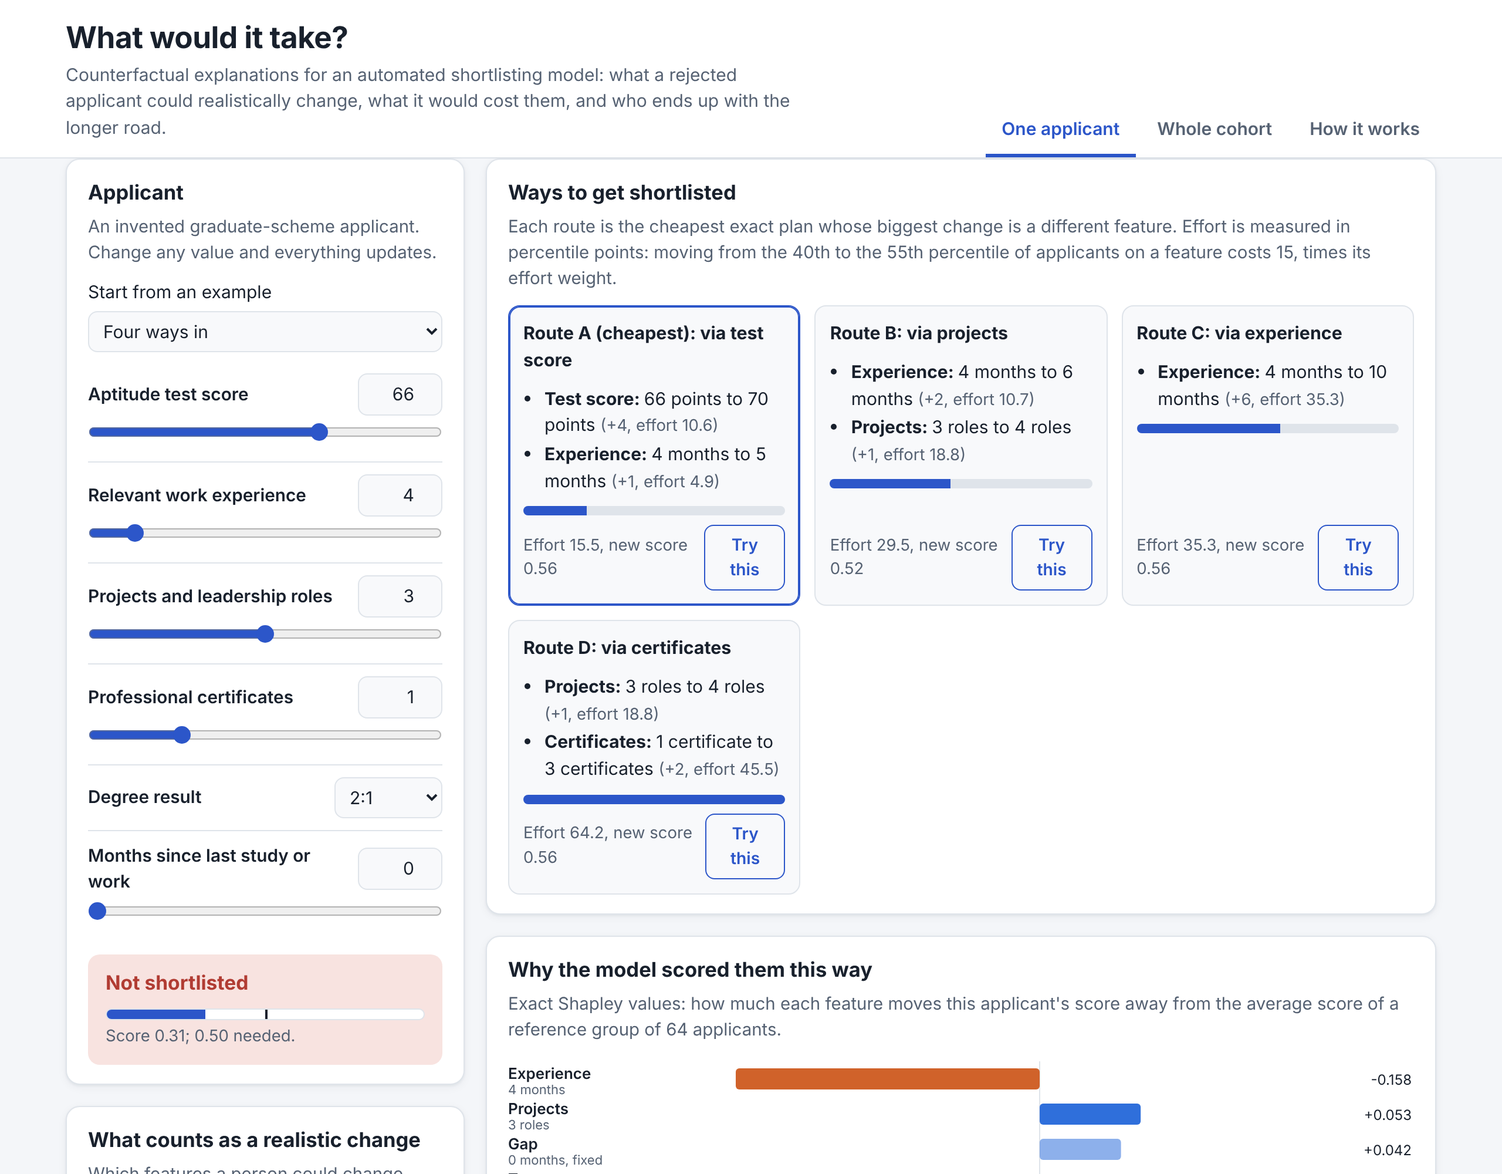
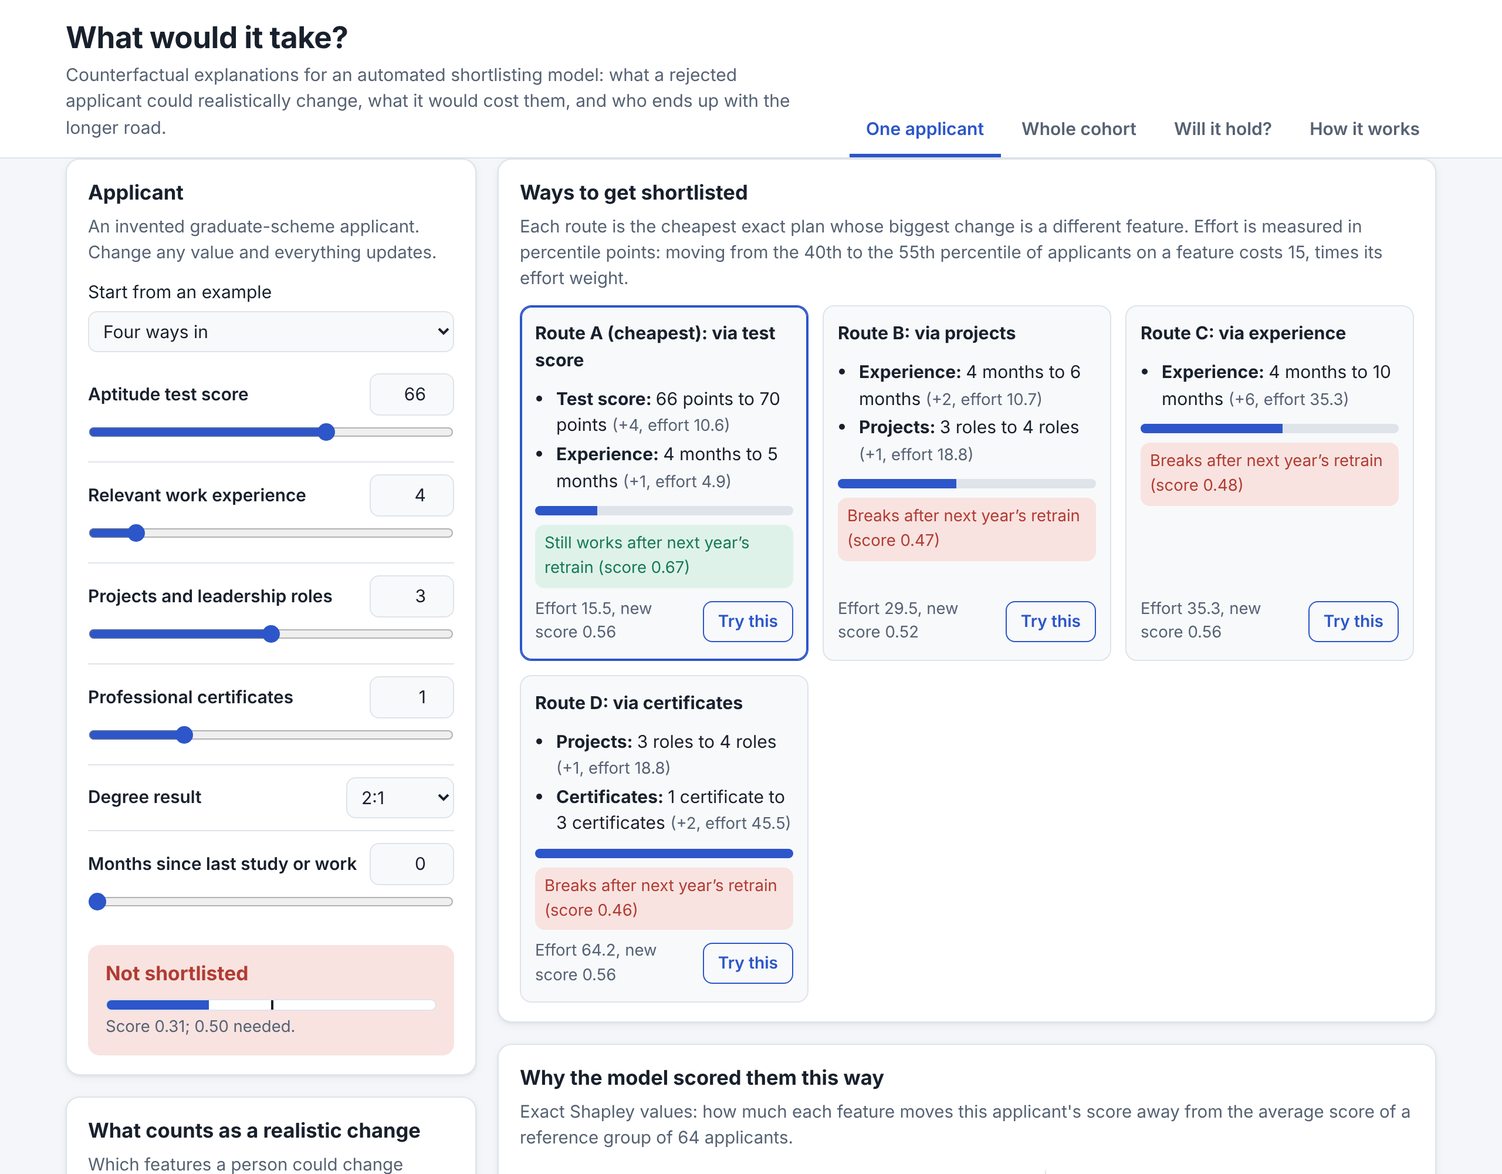
Loop 3: interface pass: phone order, compact rules table, round map ticks, clearer route markers, legends and table fit

diff --git a/app/index.html b/app/index.html
@@ -40,7 +40,7 @@ nav.tabs button[aria-selected="true"] { color: var(--accent); border-bottom-colo
 nav.tabs button:focus-visible { outline: 2px solid var(--accent); outline-offset: -2px; border-radius: 6px; }
 main { padding: 20px 0 40px; }
 .panel[hidden] { display: none; }
-.grid { display: grid; grid-template-columns: 340px minmax(0, 1fr); gap: 18px; align-items: start; }
+.grid { display: grid; grid-template-columns: 350px minmax(0, 1fr); gap: 18px; align-items: start; }
 .col { display: grid; gap: 18px; min-width: 0; }
 .card { background: var(--surface); border: 1px solid var(--line); border-radius: var(--radius); padding: 16px 18px; box-shadow: var(--shadow); min-width: 0; }
 .card h2 { font-size: 1.08rem; margin: 0 0 4px; }
@@ -80,7 +80,7 @@ select:focus-visible, input:focus-visible, button:focus-visible { outline: 2px s
 .plan .foot { display: flex; align-items: center; justify-content: space-between; gap: 8px; margin-top: auto; }
 .effort { height: 8px; border-radius: 5px; background: var(--line); overflow: hidden; }
 .effort span { display: block; height: 100%; background: var(--accent); }
-.btn { display: inline-block; appearance: none; font: inherit; font-weight: 600; font-size: 0.88rem; border-radius: 8px; padding: 6px 12px; cursor: pointer; border: 1px solid var(--accent); background: var(--accent); color: var(--accent-ink); }
+.btn { display: inline-block; white-space: nowrap; appearance: none; font: inherit; font-weight: 600; font-size: 0.88rem; border-radius: 8px; padding: 6px 12px; cursor: pointer; border: 1px solid var(--accent); background: var(--accent); color: var(--accent-ink); }
 .btn.ghost { background: transparent; color: var(--accent); }
 .btn:disabled { opacity: 0.45; cursor: default; }
 .empty { padding: 14px; border: 1px dashed var(--line); border-radius: 10px; color: var(--muted); }
@@ -99,10 +99,16 @@ th, td { text-align: left; padding: 7px 8px; border-bottom: 1px solid var(--line
 th { font-weight: 600; color: var(--muted); font-size: 0.85rem; }
 td.num, th.num { text-align: right; font-variant-numeric: tabular-nums; }
 .tablewrap { overflow-x: auto; }
-.rules td input[type="number"] { width: 64px; }
-.rules td select { width: 76px; }
+.rules th, .rules td { padding: 6px 4px; }
+.rules td input[type="number"] { width: 54px; padding: 5px 6px; }
+.rules td select { width: 68px; padding: 5px 4px; }
+.rules td.cb { text-align: center; }
+.rules input[type="checkbox"] { width: 18px; height: 18px; accent-color: var(--accent); }
 .inline { display: flex; flex-wrap: wrap; gap: 14px; align-items: center; margin-top: 12px; }
 .kpis { display: grid; grid-template-columns: repeat(auto-fit, minmax(170px, 1fr)); gap: 12px; }
+.kpis .legend { grid-column: 1 / -1; margin-top: 0; }
+.short { display: none; }
+.tablecap { margin: 8px 0 0; }
 .kpi { border: 1px solid var(--line); border-radius: 10px; padding: 12px; background: var(--surface-2); }
 .kpi .lab { font-size: 0.84rem; color: var(--muted); }
 .kpi .vals { display: flex; gap: 14px; align-items: baseline; margin-top: 4px; flex-wrap: wrap; }
@@ -122,15 +128,30 @@ table.matrix td.hot { background: var(--accent-soft); font-weight: 700; }
 .hold.ok { background: var(--yes-soft); color: var(--yes); }
 .hold.bad { background: var(--no-soft); color: var(--no); }
 .prose p, .prose li { margin: 0 0 10px; }
-footer.foot { color: var(--muted); font-size: 0.85rem; padding: 0 0 30px; }
+footer.foot { color: var(--muted); font-size: 0.85rem; padding-bottom: 30px; }
 .sr-only { position: absolute; width: 1px; height: 1px; padding: 0; margin: -1px; overflow: hidden; clip: rect(0, 0, 0, 0); border: 0; }
 @media (max-width: 900px) {
   .grid { grid-template-columns: 1fr; }
+  /* On narrow screens the two columns merge so the routes follow the applicant. */
+  .grid > .col { display: contents; }
+  #card-applicant { order: 1; }
+  #card-plans { order: 2; }
+  #card-why { order: 3; }
+  #card-map { order: 4; }
+  #card-notice { order: 5; }
+  #card-rules { order: 6; }
+  #card-setup { order: 7; }
 }
 @media (max-width: 520px) {
   h1 { font-size: 1.35rem; }
   .card { padding: 14px; }
-  nav.tabs button { padding: 8px 10px; }
+  nav.tabs { gap: 0; }
+  nav.tabs button { padding: 8px 7px; font-size: 0.9rem; }
+  .long { display: none; }
+  .short { display: inline; }
+  table { font-size: 0.86rem; }
+  th, td { padding: 6px 4px; }
+  table.matrix td.num { min-width: 0; }
 }
 </style>
 </head>
@@ -142,10 +163,10 @@ footer.foot { color: var(--muted); font-size: 0.85rem; padding: 0 0 30px; }
       <p class="tag">Counterfactual explanations for an automated shortlisting model: what a rejected applicant could realistically change, what it would cost them, and who ends up with the longer road.</p>
     </div>
     <nav class="tabs" role="tablist" aria-label="Sections">
-      <button role="tab" id="tab-applicant" aria-controls="panel-applicant" aria-selected="true">One applicant</button>
-      <button role="tab" id="tab-cohort" aria-controls="panel-cohort" aria-selected="false" tabindex="-1">Whole cohort</button>
+      <button role="tab" id="tab-applicant" aria-controls="panel-applicant" aria-selected="true"><span class="long">One applicant</span><span class="short">Applicant</span></button>
+      <button role="tab" id="tab-cohort" aria-controls="panel-cohort" aria-selected="false" tabindex="-1"><span class="long">Whole cohort</span><span class="short">Cohort</span></button>
       <button role="tab" id="tab-hold" aria-controls="panel-hold" aria-selected="false" tabindex="-1">Will it hold?</button>
-      <button role="tab" id="tab-about" aria-controls="panel-about" aria-selected="false" tabindex="-1">How it works</button>
+      <button role="tab" id="tab-about" aria-controls="panel-about" aria-selected="false" tabindex="-1"><span class="long">How it works</span><span class="short">About</span></button>
     </nav>
   </div>
 </header>
@@ -154,7 +175,7 @@ footer.foot { color: var(--muted); font-size: 0.85rem; padding: 0 0 30px; }
   <section class="panel" id="panel-applicant" role="tabpanel" aria-labelledby="tab-applicant">
     <div class="grid">
       <div class="col">
-        <section class="card" aria-labelledby="h-applicant">
+        <section class="card" id="card-applicant" aria-labelledby="h-applicant">
           <h2 id="h-applicant">Applicant</h2>
           <p class="hint">An invented graduate-scheme applicant. Change any value and everything updates.</p>
           <label class="preset">Start from an example
@@ -163,12 +184,12 @@ footer.foot { color: var(--muted); font-size: 0.85rem; padding: 0 0 30px; }
           <div id="fields"></div>
           <div id="decision" class="decision" aria-live="polite"></div>
         </section>
-        <section class="card" aria-labelledby="h-rules">
+        <section class="card" id="card-rules" aria-labelledby="h-rules">
           <h2 id="h-rules">What counts as a realistic change</h2>
           <p class="hint">Which features a person could change within about a year, by how much, and how hard each one is. Effort weight 2 makes a feature twice as costly.</p>
           <div class="tablewrap">
             <table class="rules">
-              <thead><tr><th scope="col">Feature</th><th scope="col">Can change</th><th scope="col" class="num">By up to</th><th scope="col" class="num">Effort weight</th></tr></thead>
+              <thead><tr><th scope="col">Feature</th><th scope="col">Can change</th><th scope="col">By up to</th><th scope="col">Effort weight</th></tr></thead>
               <tbody id="rules"></tbody>
             </table>
           </div>
@@ -181,7 +202,7 @@ footer.foot { color: var(--muted); font-size: 0.85rem; padding: 0 0 30px; }
             </label>
           </div>
         </section>
-        <section class="card" aria-labelledby="h-setup">
+        <section class="card" id="card-setup" aria-labelledby="h-setup">
           <h2 id="h-setup">Save or share this setup</h2>
           <p class="hint">The applicant, the rules and the retrain settings. The file also works with the Python companion.</p>
           <div class="btnrow">
@@ -194,18 +215,18 @@ footer.foot { color: var(--muted); font-size: 0.85rem; padding: 0 0 30px; }
         </section>
       </div>
       <div class="col">
-        <section class="card" aria-labelledby="h-plans">
+        <section class="card" id="card-plans" aria-labelledby="h-plans">
           <h2 id="h-plans">Ways to get shortlisted</h2>
           <p class="hint">Each route is the cheapest exact plan whose biggest change is a different feature. Effort is measured in percentile points: moving from the 40th to the 55th percentile of applicants on a feature costs 15, times its effort weight.</p>
           <div id="plans"></div>
         </section>
-        <section class="card" aria-labelledby="h-why">
+        <section class="card" id="card-why" aria-labelledby="h-why">
           <h2 id="h-why">Why the model scored them this way</h2>
           <p class="hint">Exact Shapley values: how much each feature moves this applicant's score away from the average score of a reference group of 64 applicants.</p>
           <div class="chartwrap" id="shap"></div>
           <p class="note" id="shapNote"></p>
         </section>
-        <section class="card" aria-labelledby="h-map">
+        <section class="card" id="card-map" aria-labelledby="h-map">
           <h2 id="h-map">Decision map</h2>
           <p class="hint">The model's answer for every combination of two features, holding the others at this applicant's values.</p>
           <div class="mapctl">
@@ -215,7 +236,7 @@ footer.foot { color: var(--muted); font-size: 0.85rem; padding: 0 0 30px; }
           <canvas id="map" height="320" role="img" aria-label="Decision map"></canvas>
           <div class="legend" id="mapLegend"></div>
         </section>
-        <section class="card" aria-labelledby="h-notice">
+        <section class="card" id="card-notice" aria-labelledby="h-notice">
           <h2 id="h-notice">What the applicant would be told</h2>
           <p class="hint">A plain-English notice built from the score, the Shapley values and the routes above, including how firm the routes are.</p>
           <pre class="notice" id="notice" tabindex="0" aria-label="Notice to the applicant"></pre>
@@ -238,6 +259,7 @@ footer.foot { color: var(--muted); font-size: 0.85rem; padding: 0 0 30px; }
         <div class="kpis" id="gapKpis"></div>
         <h3>Biggest drag (rows) against where the cheapest route puts most of its effort (columns), all rejected applicants</h3>
         <div class="tablewrap"><table id="gapMatrix" class="matrix"></table></div>
+        <p class="small tablecap">Counts of rejected applicants. Shaded cells are routes whose main effort goes on the biggest drag. Elsewhere the advice points away from the explanation; the figure above counts the routes that leave the biggest drag alone entirely.</p>
       </section>
       <section class="card" aria-labelledby="h-hist">
         <h2 id="h-hist">Effort of the cheapest route, rejected applicants only</h2>
@@ -247,6 +269,7 @@ footer.foot { color: var(--muted); font-size: 0.85rem; padding: 0 0 30px; }
       <section class="card" aria-labelledby="h-levers">
         <h2 id="h-levers">What the cheapest routes ask people to change</h2>
         <div class="tablewrap"><table id="levers"></table></div>
+        <p class="small tablecap">Share of cheapest routes that change each feature. A route can change more than one.</p>
       </section>
     </div>
   </section>
@@ -1115,17 +1138,17 @@ if (typeof module !== 'undefined' && module.exports) module.exports = API;
     FEATURES.forEach(function (f, j) {
       const tr = el('tr');
       tr.appendChild(el('th', { scope: 'row' }, f.short));
-      const td1 = el('td');
+      const td1 = el('td', { class: 'cb' });
       const cb = el('input', { type: 'checkbox', id: 'act-' + j, 'aria-label': 'Allow ' + f.short + ' to change' });
       cb.checked = state.settings[j].actionable;
       td1.appendChild(cb);
       tr.appendChild(td1);
-      const td2 = el('td', { class: 'num' });
+      const td2 = el('td');
       const cap = el('input', { type: 'number', min: 0, max: f.max - f.min, step: 1, id: 'cap-' + j, 'aria-label': (f.dir > 0 ? 'Largest increase in ' : 'Largest decrease in ') + f.short });
       cap.value = String(state.settings[j].cap);
       td2.appendChild(cap);
       tr.appendChild(td2);
-      const td3 = el('td', { class: 'num' });
+      const td3 = el('td');
       const w = el('select', { id: 'w-' + j, 'aria-label': 'Effort weight for ' + f.short });
       [0.5, 1, 1.5, 2, 3].forEach(function (v) { w.appendChild(el('option', { value: String(v) }, v + 'x')); });
       w.value = String(state.settings[j].weight);
@@ -1199,7 +1222,7 @@ if (typeof module !== 'undefined' && module.exports) module.exports = API;
     }
     if (res.options.length === 0) {
       const msg = res.status === 'limit' ? 'The search hit its safety limit before finding a route.' :
-        'No route within these limits. Nothing this applicant could change, by the amounts allowed, lifts the score to 0.50. Try allowing bigger changes or more features in the rules below the applicant.';
+        'No route within these limits. Nothing this applicant could change, by the amounts allowed, lifts the score to the target. Try allowing bigger changes or more features under \u201cWhat counts as a realistic change\u201d.';
       box.appendChild(el('div', { class: 'empty' }, msg));
       return [];
     }
@@ -1279,6 +1302,17 @@ if (typeof module !== 'undefined' && module.exports) module.exports = API;
     svg.appendChild(sv('text', { x: x0 + 6, y: H - 8, 'font-size': 11, class: 'muted' }, 'raises score'));
     svg.setAttribute('aria-label', 'Shapley values. Average score ' + sh.base.toFixed(2) + '. ' + desc.join('; ') + '. Applicant score ' + fmtScore(sh.value) + '.');
     box.appendChild(svg);
+    const leg = el('div', { class: 'legend' });
+    [['--helps', 1, 'Raises the score'], ['--hurts', 1, 'Lowers the score'], ['--hurts', 0.55, 'Faded: cannot change under the current rules']].forEach(function (L) {
+      const sp = el('span');
+      const i = el('i');
+      i.style.background = cssVar(L[0]);
+      i.style.opacity = String(L[1]);
+      sp.appendChild(i);
+      sp.appendChild(document.createTextNode(L[2]));
+      leg.appendChild(sp);
+    });
+    box.appendChild(leg);
 
     const note = $('shapNote');
     const sum = sh.phi.reduce(function (a, b) { return a + b; }, 0);
@@ -1372,8 +1406,17 @@ if (typeof module !== 'undefined' && module.exports) module.exports = API;
     ctx.fillStyle = cssVar('--muted');
     ctx.font = '11px system-ui, sans-serif';
     ctx.textAlign = 'center';
-    const ticks = function (F, n) { const step = Math.max(1, Math.ceil((F.max - F.min) / n)); const out = []; for (let v = F.min; v <= F.max; v += step) out.push(v); return out; };
-    ticks(FX, 6).forEach(function (v) { ctx.fillText(FX.levels ? FX.levels[v - FX.min] : String(v), padL + (v - FX.min + 0.5) * cw, cssH - padB + 14); });
+    // Round-number ticks: the smallest of 1, 2, 5, 10, 20, 25, 50 that gives at most n of them.
+    const ticks = function (F, n) {
+      if (F.levels) return F.levels.map(function (x, k) { return F.min + k; });
+      const steps = [1, 2, 5, 10, 20, 25, 50];
+      let step = steps[steps.length - 1];
+      for (let k = 0; k < steps.length; k++) if ((F.max - F.min) / steps[k] <= n) { step = steps[k]; break; }
+      const out = [];
+      for (let v = Math.ceil(F.min / step) * step; v <= F.max; v += step) out.push(v);
+      return out;
+    };
+    ticks(FX, cssW < 500 ? 4 : 8).forEach(function (v) { ctx.fillText(FX.levels ? FX.levels[v - FX.min] : String(v), padL + (v - FX.min + 0.5) * cw, cssH - padB + 14); });
     ctx.fillText(FX.label + (FX.unit && !FX.levels ? ' (' + FX.unit + ')' : ''), padL + pw / 2, cssH - 4);
     ctx.textAlign = 'right';
     ticks(FY, 5).forEach(function (v) { ctx.fillText(FY.levels ? FY.levels[v - FY.min] : String(v), padL - 6, padT + (ny - 1 - (v - FY.min) + 0.5) * ch + 4); });
@@ -1385,29 +1428,42 @@ if (typeof module !== 'undefined' && module.exports) module.exports = API;
     ctx.restore();
     const px = function (v) { return padL + (v - FX.min + 0.5) * cw; };
     const py = function (v) { return padT + (ny - 1 - (v - FY.min) + 0.5) * ch; };
-    // routes that only move the two plotted features
+    // Routes that only move the two plotted features: a dashed arrow to a small
+    // dot, with the route's letter placed beyond the dot so it clears the applicant.
     let shown = 0;
+    const ax = px(state.x[fx]);
+    const ay = py(state.x[fy]);
     options.forEach(function (o, k) {
       const others = o.changes.some(function (c) { return c.j !== fx && c.j !== fy; });
       if (others) return;
       shown += 1;
+      const ex = px(o.values[fx]);
+      const ey = py(o.values[fy]);
       ctx.strokeStyle = cssVar('--ink');
       ctx.lineWidth = 1.5;
       ctx.setLineDash([4, 3]);
       ctx.beginPath();
-      ctx.moveTo(px(state.x[fx]), py(state.x[fy]));
-      ctx.lineTo(px(o.values[fx]), py(o.values[fy]));
+      ctx.moveTo(ax, ay);
+      ctx.lineTo(ex, ey);
       ctx.stroke();
       ctx.setLineDash([]);
-      ctx.fillStyle = cssVar('--surface');
-      ctx.beginPath();
-      ctx.arc(px(o.values[fx]), py(o.values[fy]), 8, 0, Math.PI * 2);
-      ctx.fill();
-      ctx.stroke();
       ctx.fillStyle = cssVar('--ink');
+      ctx.beginPath();
+      ctx.arc(ex, ey, 3.5, 0, Math.PI * 2);
+      ctx.fill();
+      let dx = ex - ax;
+      let dy = ey - ay;
+      const len = Math.sqrt(dx * dx + dy * dy) || 1;
+      dx /= len;
+      dy /= len;
+      const lx = Math.min(padL + pw - 8, Math.max(padL + 8, ex + dx * 13));
+      const ly = Math.min(padT + ph - 4, Math.max(padT + 12, ey + dy * 13 + 4));
+      ctx.font = 'bold 12px system-ui, sans-serif';
       ctx.textAlign = 'center';
-      ctx.font = 'bold 10px system-ui, sans-serif';
-      ctx.fillText(String.fromCharCode(65 + k), px(o.values[fx]), py(o.values[fy]) + 3.5);
+      ctx.lineWidth = 3;
+      ctx.strokeStyle = cssVar('--surface');
+      ctx.strokeText(String.fromCharCode(65 + k), lx, ly);
+      ctx.fillText(String.fromCharCode(65 + k), lx, ly);
     });
     ctx.fillStyle = cssVar('--accent');
     ctx.strokeStyle = cssVar('--surface');
@@ -1424,7 +1480,9 @@ if (typeof module !== 'undefined' && module.exports) module.exports = API;
     item(yesC, 'Shortlisted');
     item(noC, 'Not shortlisted');
     item(cssVar('--accent'), 'This applicant');
-    if (options.length > shown) leg.appendChild(el('span', null, (options.length - shown) + ' route' + (options.length - shown === 1 ? '' : 's') + ' also change other features, so not drawn here.'));
+    if (shown) leg.appendChild(el('span', null, 'Letters: where each route ends'));
+    const hidden = options.length - shown;
+    if (hidden > 0) leg.appendChild(el('span', null, hidden === 1 ? 'One route also changes other features, so it is not drawn here.' : hidden + ' routes also change other features, so they are not drawn here.'));
   }
 
   // ---- Applicant render ----
@@ -1504,13 +1562,19 @@ if (typeof module !== 'undefined' && module.exports) module.exports = API;
     const thead = el('thead');
     const hr = el('tr');
     hr.appendChild(el('th', { scope: 'col' }, 'Biggest drag'));
-    cols.forEach(function (j) { hr.appendChild(el('th', { scope: 'col', class: 'num' }, j === D ? 'No route' : FEATURES[j].short)); });
+    const SHORT = ['Test', 'Exp.', 'Proj.', 'Certs', 'Deg.', 'Gap', 'None'];
+    cols.forEach(function (j) {
+      const th = el('th', { scope: 'col', class: 'num' });
+      th.appendChild(el('span', { class: 'long' }, j === D ? 'No route' : FEATURES[j].short));
+      th.appendChild(el('span', { class: 'short', 'aria-hidden': 'true' }, SHORT[j]));
+      hr.appendChild(th);
+    });
     thead.appendChild(hr);
     t.appendChild(thead);
     const body = el('tbody');
     rows.forEach(function (r) {
       const tr = el('tr');
-      tr.appendChild(el('th', { scope: 'row' }, r === D ? 'None (average is below the line)' : FEATURES[r].short + (state.settings[r].actionable ? '' : ' (fixed)')));
+      tr.appendChild(el('th', { scope: 'row' }, r === D ? 'None (the average is below the line)' : FEATURES[r].short + (state.settings[r].actionable ? '' : ' (fixed)')));
       cols.forEach(function (c) {
         const v = gap[2].matrix[r][c];
         tr.appendChild(el('td', { class: 'num' + (r === c ? ' hot' : '') }, String(v)));
@@ -1518,8 +1582,6 @@ if (typeof module !== 'undefined' && module.exports) module.exports = API;
       body.appendChild(tr);
     });
     t.appendChild(body);
-    t.appendChild(el('caption', { class: 'small', style: 'caption-side: bottom; text-align: left; padding-top: 8px;' },
-      'Counts of rejected applicants. Shaded cells are routes whose main effort goes on the biggest drag. Elsewhere the advice points away from the explanation; the figure above counts the routes that leave the biggest drag alone entirely.'));
   }
   function renderHist(a) {
     const box = $('hist');
@@ -1582,8 +1644,6 @@ if (typeof module !== 'undefined' && module.exports) module.exports = API;
       body.appendChild(tr);
     });
     t.appendChild(body);
-    const cap = el('caption', { class: 'small', style: 'caption-side: bottom; text-align: left; padding-top: 8px;' }, 'Share of cheapest routes that change each feature. A route can change more than one.');
-    t.appendChild(cap);
   }
 
   // ---- Notice ----
@@ -1811,7 +1871,7 @@ if (typeof module !== 'undefined' && module.exports) module.exports = API;
       svg.appendChild(sv('text', { x: padL - 6, y: Y(t) + 4, 'font-size': 11, 'text-anchor': 'end', class: 'muted' }, Math.round(t * 100) + '%'));
     });
     svg.appendChild(sv('line', { x1: padL, x2: W - padR, y1: Y(0.9), y2: Y(0.9), stroke: cssVar('--muted'), 'stroke-dasharray': '4 4' }));
-    svg.appendChild(sv('text', { x: W - padR, y: Y(0.9) - 5, 'font-size': 11, 'text-anchor': 'end', class: 'muted' }, '90%'));
+    svg.appendChild(sv('text', { x: padL + 4, y: Y(0.9) - 5, 'font-size': 11, class: 'muted' }, '90% of routes'));
     MARGINS.forEach(function (m, k) {
       svg.appendChild(sv('text', { x: X(k), y: H - padB + 16, 'font-size': 11, 'text-anchor': 'middle', class: 'muted' }, m === 0 ? '0' : '+' + m));
     });
@@ -1840,8 +1900,12 @@ if (typeof module !== 'undefined' && module.exports) module.exports = API;
     t.innerHTML = '';
     const thead = el('thead');
     const tr = el('tr');
-    ['Safety margin', 'Rejected with a route', 'Median effort', 'Still working: all', GROUPS[0], GROUPS[1]].forEach(function (c, k) {
-      tr.appendChild(el('th', { scope: 'col', class: k ? 'num' : '' }, c));
+    [['Safety margin', 'Margin'], ['Rejected with a route', 'Has a route'], ['Median effort', 'Effort'], ['Still working: all', 'Works: all'],
+      ['Others', 'Others'], ['First in family', '1st in family']].forEach(function (c, k) {
+      const th = el('th', { scope: 'col', class: k ? 'num' : '' });
+      th.appendChild(el('span', { class: 'long' }, c[0]));
+      th.appendChild(el('span', { class: 'short', 'aria-hidden': 'true' }, c[1]));
+      tr.appendChild(th);
     });
     thead.appendChild(tr);
     t.appendChild(thead);
